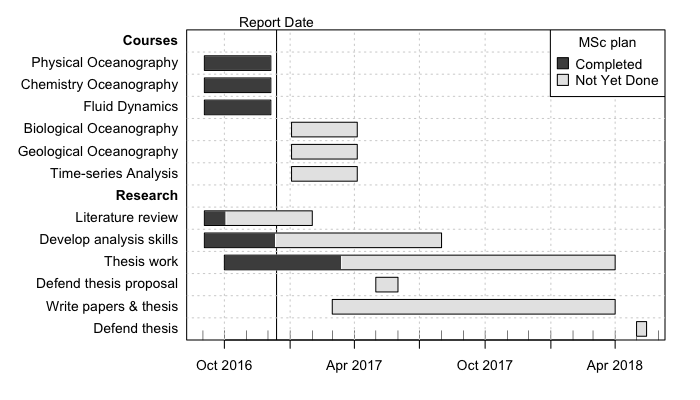
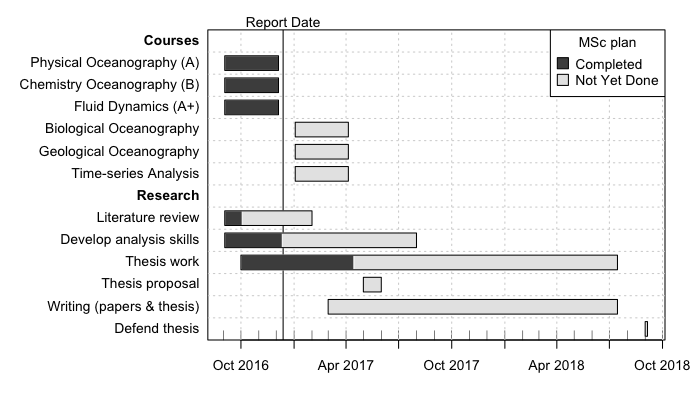
web

diff --git a/examples.md b/examples.md
@@ -17,23 +17,25 @@ A complex (and realistic) example of a gantt chart for a MSc program that is
 still underway. Note that the method of generating the data is one of three
 available; other choices are `as.gantt()` and `read.gantt()`.
 
+<!-- png("gantt.png",width=7,height=4,unit="in",res=100,pointsize=10) -->
+
 {% highlight r %}
 library("plan")
 g <- new("gantt")
 g <- ganttAddTask(g, "Courses") # no times, so a heading
-g <- ganttAddTask(g, "Physical Oceanography", "2016-09-03", "2016-12-05", done=100)
-g <- ganttAddTask(g, "Chemistry Oceanography", "2016-09-03", "2016-12-05", done=100)
-g <- ganttAddTask(g, "Fluid Dynamics", "2016-09-03", "2016-12-05", done=100)
+g <- ganttAddTask(g, "Physical Oceanography (A)", "2016-09-03", "2016-12-05", done=100)
+g <- ganttAddTask(g, "Chemistry Oceanography (B)", "2016-09-03", "2016-12-05", done=100)
+g <- ganttAddTask(g, "Fluid Dynamics (A+)", "2016-09-03", "2016-12-05", done=100)
 g <- ganttAddTask(g, "Biological Oceanography", "2017-01-03", "2017-04-05")
 g <- ganttAddTask(g, "Geological Oceanography", "2017-01-03", "2017-04-05")
 g <- ganttAddTask(g, "Time-series Analysis", "2017-01-03", "2017-04-05")
 g <- ganttAddTask(g, "Research") # no times, so a heading
 g <- ganttAddTask(g, "Literature review", "2016-09-03", "2017-02-01", done=20)
 g <- ganttAddTask(g, "Develop analysis skills", "2016-09-03", "2017-08-01", done=30)
-g <- ganttAddTask(g, "Thesis work", "2016-10-01", "2018-04-01", done=30)
-g <- ganttAddTask(g, "Defend thesis proposal", "2017-05-01", "2017-06-01")
-g <- ganttAddTask(g, "Write papers & thesis", "2017-03-01", "2018-04-01")
-g <- ganttAddTask(g, "Defend thesis", "2018-05-01", "2018-05-15")
+g <- ganttAddTask(g, "Thesis work", "2016-10-01", "2018-07-15", done=30)
+g <- ganttAddTask(g, "Thesis proposal", "2017-05-01", "2017-06-01")
+g <- ganttAddTask(g, "Writing (papers & thesis)", "2017-03-01", "2018-07-15")
+g <- ganttAddTask(g, "Defend thesis", "2018-09-01", "2018-09-05")
 plot(g, ylabel=list(font=ifelse(is.na(g[["start"]]), 2, 1)),
      event.time="2016-12-13", event.label="Report Date")
 par(lend="square") # default is round
